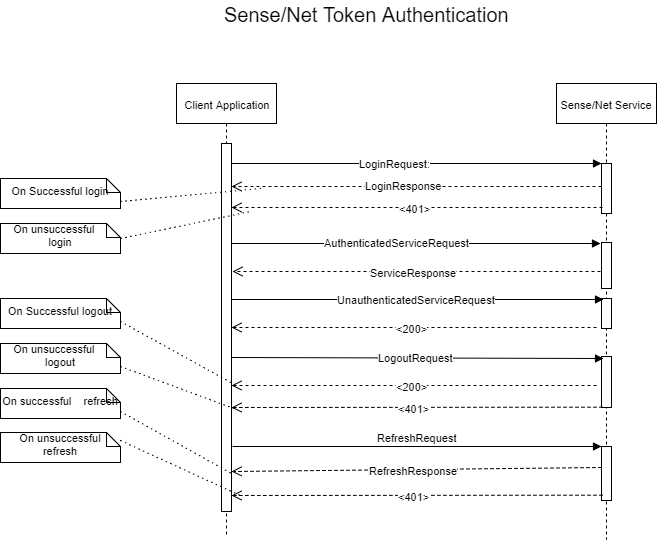
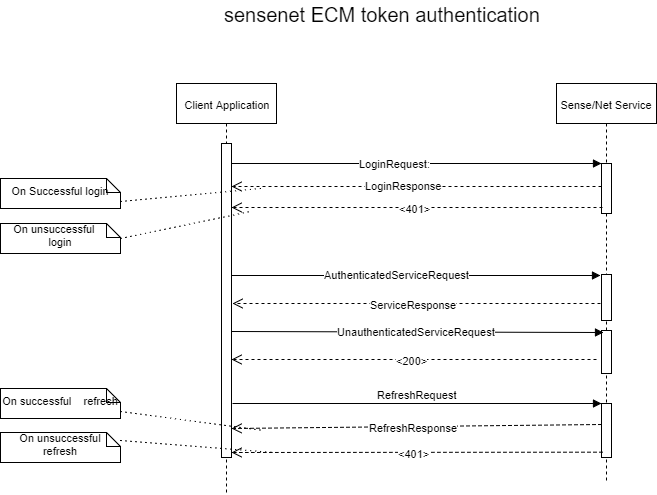
fix reviewed issues

diff --git a/src/Tests/SenseNet.Services.Tests/TokenAuthenticationTests.cs b/src/Tests/SenseNet.Services.Tests/TokenAuthenticationTests.cs
@@ -197,6 +197,75 @@ namespace SenseNet.Services.Tests
         }
 
         [Fact]
+        public void TokenLogoutWithExpiredTokenTest()
+        {
+            var mockRequest = new Mock<HttpRequestBase>();
+            mockRequest.SetupGet(o => o.Url).Returns(new Uri("https://sensenet.com/sn-token/logout"));
+            mockRequest.SetupGet(o => o.IsSecureConnection).Returns(true);
+            var headers = new NameValueCollection();
+            mockRequest.SetupGet(o => o.Headers).Returns(headers);
+            var requestCookies = new HttpCookieCollection();
+            requestCookies.Add(new HttpCookie("ahp")
+            {
+                Value = "eyJhbGciOiJIUzUxMiIsInR5cCI6IkpXVCJ9.eyJpc3MiOiJpc3N1ZXIiLCJzdWIiOiJzdWJqZWN0IiwiYXVkIjoiYXVkaWVuY2UiLCJleHAiOjE0ODMyMjkxMDAsImlhdCI6MTQ4MzIyODgwMCwibmJmIjoxNDgzMjI4ODAwLCJuYW1lIjoidXNlcm5hbWUifQ"
+                ,HttpOnly = true
+                ,Secure = true
+                ,Expires = new DateTime(2017, 1, 1)
+            });
+            requestCookies.Add(new HttpCookie("as")
+            {
+                Value = "egnUVGaLt_kfj_i12z7_sOSXMNByuz7p2OEEULUanpcJk4ySYebnuNc1v7XRT2ZYALc0FQEwgtrAN_uQ4779bg"
+                ,HttpOnly = true
+                ,Secure = true
+                ,Expires = new DateTime(2017, 1, 1)
+            });
+            requestCookies.Add(new HttpCookie("rs")
+            {
+                Value = "tpOjo49W0S0Dlt89-8AmYWiV2D4cBT9A5wdh8Rt0s37ZKbPt1aSN-oCywjpKlJ3nLC-Zqnd11IJ-B4dtDOsU-g"
+                ,HttpOnly = true
+                ,Secure = true
+                ,Expires = new DateTime(2017, 1, 1)
+            });
+            mockRequest.SetupGet(o => o.Cookies).Returns(requestCookies);
+            var mockResponse = new Mock<HttpResponseBase>();
+            var cookies = new HttpCookieCollection();
+            string body = "";
+            int responseStatus = 0;
+            mockResponse.SetupGet(o => o.Cookies).Returns(cookies);
+            mockResponse.Setup(o => o.Write(It.IsAny<string>())).Callback((string t) => { body = t; });
+            mockResponse.SetupSet(o => o.StatusCode = It.IsAny<int>()).Callback((int s) => { responseStatus = s; });
+            var principal = new ClaimsPrincipal();
+            var claims = new List<Claim>();
+            claims.Add(new Claim("http://schemas.xmlsoap.org/ws/2005/05/identity/claims/name", "username"));
+            principal.AddIdentity(new ClaimsIdentity(claims));
+
+            var mockContext = new Mock<HttpContextBase>();
+            mockContext.SetupGet(o => o.Request).Returns(mockRequest.Object);
+            mockContext.SetupGet(o => o.Response).Returns(mockResponse.Object);
+            mockContext.SetupGet(o => o.User).Returns(principal);
+            Configuration.TokenAuthentication.Audience = "audience";
+            Configuration.TokenAuthentication.Issuer = "issuer";
+            Configuration.TokenAuthentication.Subject = "subject";
+            Configuration.TokenAuthentication.EncriptionAlgorithm = "HS512";
+            Configuration.TokenAuthentication.AccessLifeTimeInMinutes = 5;
+            Configuration.TokenAuthentication.RefreshLifeTimeInMinutes = 1440;
+            Configuration.TokenAuthentication.ClockSkewInMinutes = 5;
+            Configuration.TokenAuthentication.SymmetricKeySecret = "very secrety secret";
+            var application = new HttpApplication();
+            InitDependecies(mockContext, mockRequest, mockResponse);
+
+            new TokenAuthentication().Authenticate(application, false, false);
+
+            Assert.NotNull(mockResponse.Object.Cookies["as"]);
+            Assert.NotNull(mockResponse.Object.Cookies["rs"]);
+            Assert.NotNull(mockResponse.Object.Cookies["ahp"]);
+            Assert.True(mockResponse.Object.Cookies["as"].Expires < DateTime.Today);
+            Assert.True(mockResponse.Object.Cookies["rs"].Expires < DateTime.Today);
+            Assert.True(mockResponse.Object.Cookies["ahp"].Expires < DateTime.Today);
+            Assert.Equal(200, responseStatus);
+        }
+
+        [Fact]
         public void TokenLogoutWithInvalidTokenTest()
         {
             var mockRequest = new Mock<HttpRequestBase>();

diff --git a/src/Services/Virtualization/TokenAuthentication.cs b/src/Services/Virtualization/TokenAuthentication.cs
@@ -219,7 +219,7 @@ namespace SenseNet.Portal.Virtualization
                 }
 
                 var accessSignature = authCookie.Value;
-                var principal = tokenManager.ValidateToken(accessHeadAndPayload + "." + accessSignature);
+                var principal = tokenManager.ValidateToken(accessHeadAndPayload + "." + accessSignature, false);
                 if (principal == null)
                 {
                     throw new UnauthorizedAccessException("Invalid access token.");
@@ -335,18 +335,5 @@ namespace SenseNet.Portal.Virtualization
             public string access;
             public string refresh;
         }
-
-        //public Func<object, HttpContextBase> GetContext = sender => new HttpContextWrapper(((HttpApplication)sender).Context);
-
-        //public Func<object, HttpRequestBase> GetRequest = sender => new HttpRequestWrapper(((HttpApplication)sender).Context.Request);
-
-        //public Func<object, HttpResponseBase> GetResponse = sender => new HttpResponseWrapper(((HttpApplication)sender).Context.Response);
-
-        //public Func<IPrincipal> GetVisitorPrincipal = () => new PortalPrincipal(User.Visitor);
-        //public Func<string, IPrincipal> LoadUserPrincipal = userName => new PortalPrincipal(User.Load(userName));
-
-        //public Func<string, string, bool> IsUserValid = (userName, password) => Membership.ValidateUser(userName, password);
-
-        //public Func<IDisposable> GetSystemAccount = () => new SystemAccount();
     }
 }

diff --git a/docs/web-token-authentication.md b/docs/web-token-authentication.md
@@ -1,6 +1,6 @@
 # Configuration of Web Token Authentication #
 
-In a Sense/Net web application (on all instances) you need to configure the token authentication in the _web.config_ file.
+In a sensenet ECM web application (on all instances) you need to configure the token authentication in the _web.config_ file.
 Find the _SymmetricKeySecret_ parameter in the `tokenAuthentication` section of the sensenet section group. Give it a value of random string (16 - 64 in length) in order to make the authentication work.
 
 All your instances in the NLB should have the same value as their SymmetricKeySecret. Without this your authentication wouldn't work. Also very important to keep this random string a secret, otherwise someone can exploit it as a security breach. It is a good practice to encrypt the whole tokenAuthentication section in the web.config file.
@@ -192,7 +192,7 @@ The first one is a technical like header that you do not have to care about. The
 {"iss":"sensenet-token-service","sub":"sensenet","aud":"client","exp":1490577801,"iat":1490577501,"nbf":1490577501,"name":"Joe"}
 ```
 
-### The used claims in the Sense/Net tokens:
+### The used claims in the sensenet ECM tokens:
 **_iss_**: `issuer` identifies the principal that issued the token  
 **_sub_**: `subject` identifies the principal that is the subject of the token  
 **_aud_**: `audience` identifies the recipients that the token is intended for  
